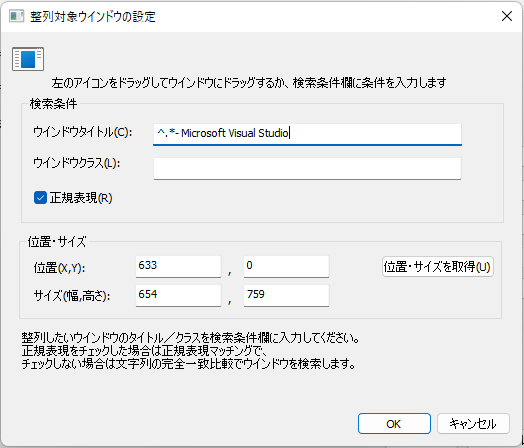
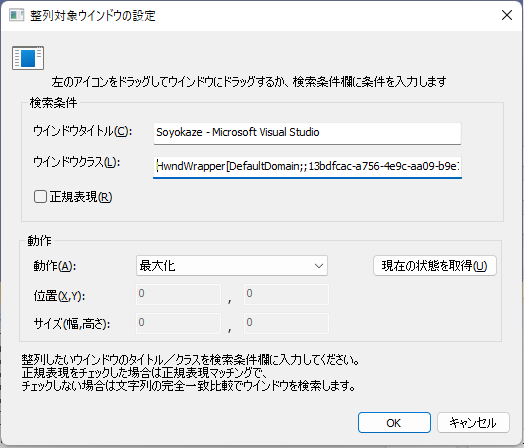
update README

diff --git a/doc/help.md b/doc/help.md
@@ -124,7 +124,7 @@ Windows環境で動作する。以下の環境で動作確認済
 
 `new`コマンドを実行したときに選択できるコマンド種類について説明する
 
-以下の7つのコマンドが選択できる
+以下の8つのコマンドが選択できる
 
 - 通常コマンド
 - スニペットコマンド(定型文コマンド)
@@ -728,7 +728,7 @@ Soyokaze配置ディレクトリ/
 
 - `検索条件`  
 整列対象とするウインドウの`ウインドウタイトル`と`ウインドウクラス`を入力する。  
-または、画面左上にあるアイコンを整列対象としたいウインドウにドラッグすると、そのウインドウの`ウインドウタイトル`と`ウインドウクラス`を入力することができる。
+画面左上にあるアイコンを整列対象としたいウインドウにドラッグすると、そのウインドウの`ウインドウタイトル`と`ウインドウクラス`を取得することができる。
   - `ウインドウタイトル`
     - 検索対象とするウインドウのタイトルを指定する。  
   空欄にした場合は`ウインドウクラス`のみで検索を行う
@@ -739,15 +739,20 @@ Soyokaze配置ディレクトリ/
   - `正規表現`
     - チェックした場合、`ウインドウタイトル`と`ウインドウクラス`に入力した文字列を正規表現として扱う
     - チェックしない場合、`ウインドウタイトル`と`ウインドウクラス`に入力した文字列の完全一致で探す
-- `位置・サイズ`  
-整列対象とするウインドウの位置とサイズを入力する。  
-または、`位置・サイズを取得`ボタンを押下すると、`検索条件`欄に指定した条件に合致するウインドウの位置とサイズを取得する。
+- `動作`  
+整列対象とするウインドウの整列動作を入力する。  
+現在の状態を取得`ボタンを押下すると、`検索条件`欄に指定した条件に合致する状態(最大化 or 最小化 or 位置とサイズ)を取得する。
+  - `動作`  
+以下のいずれかを選択する
+    - `位置・サイズを変更` : ウインドウを指定した位置・サイズに移動&リサイズする
+    - `最大化` : ウインドウを最大化する
+    - `最小化` : ウインドウを最小化する
   - `位置(X,Y)`
-    - ウインドウの位置を指定する。
+    - (`位置・サイズを変更`時)ウインドウの位置を指定する。
   - `サイズ(幅,高さ)`
-    - ウインドウのサイズを指定する。
-  - `位置・サイズを取得`
-    - `検索条件`欄に指定した条件に合致するウインドウの位置とサイズを取得する。
+    - (`位置・サイズを変更`時)ウインドウのサイズを指定する。
+  - `現在の状態を取得`
+    - `検索条件`欄に指定した条件に合致するウインドウの状態(最大化 or 最小化 or 位置とサイズ)を取得する。
 
 ## タスクトレイ
 
